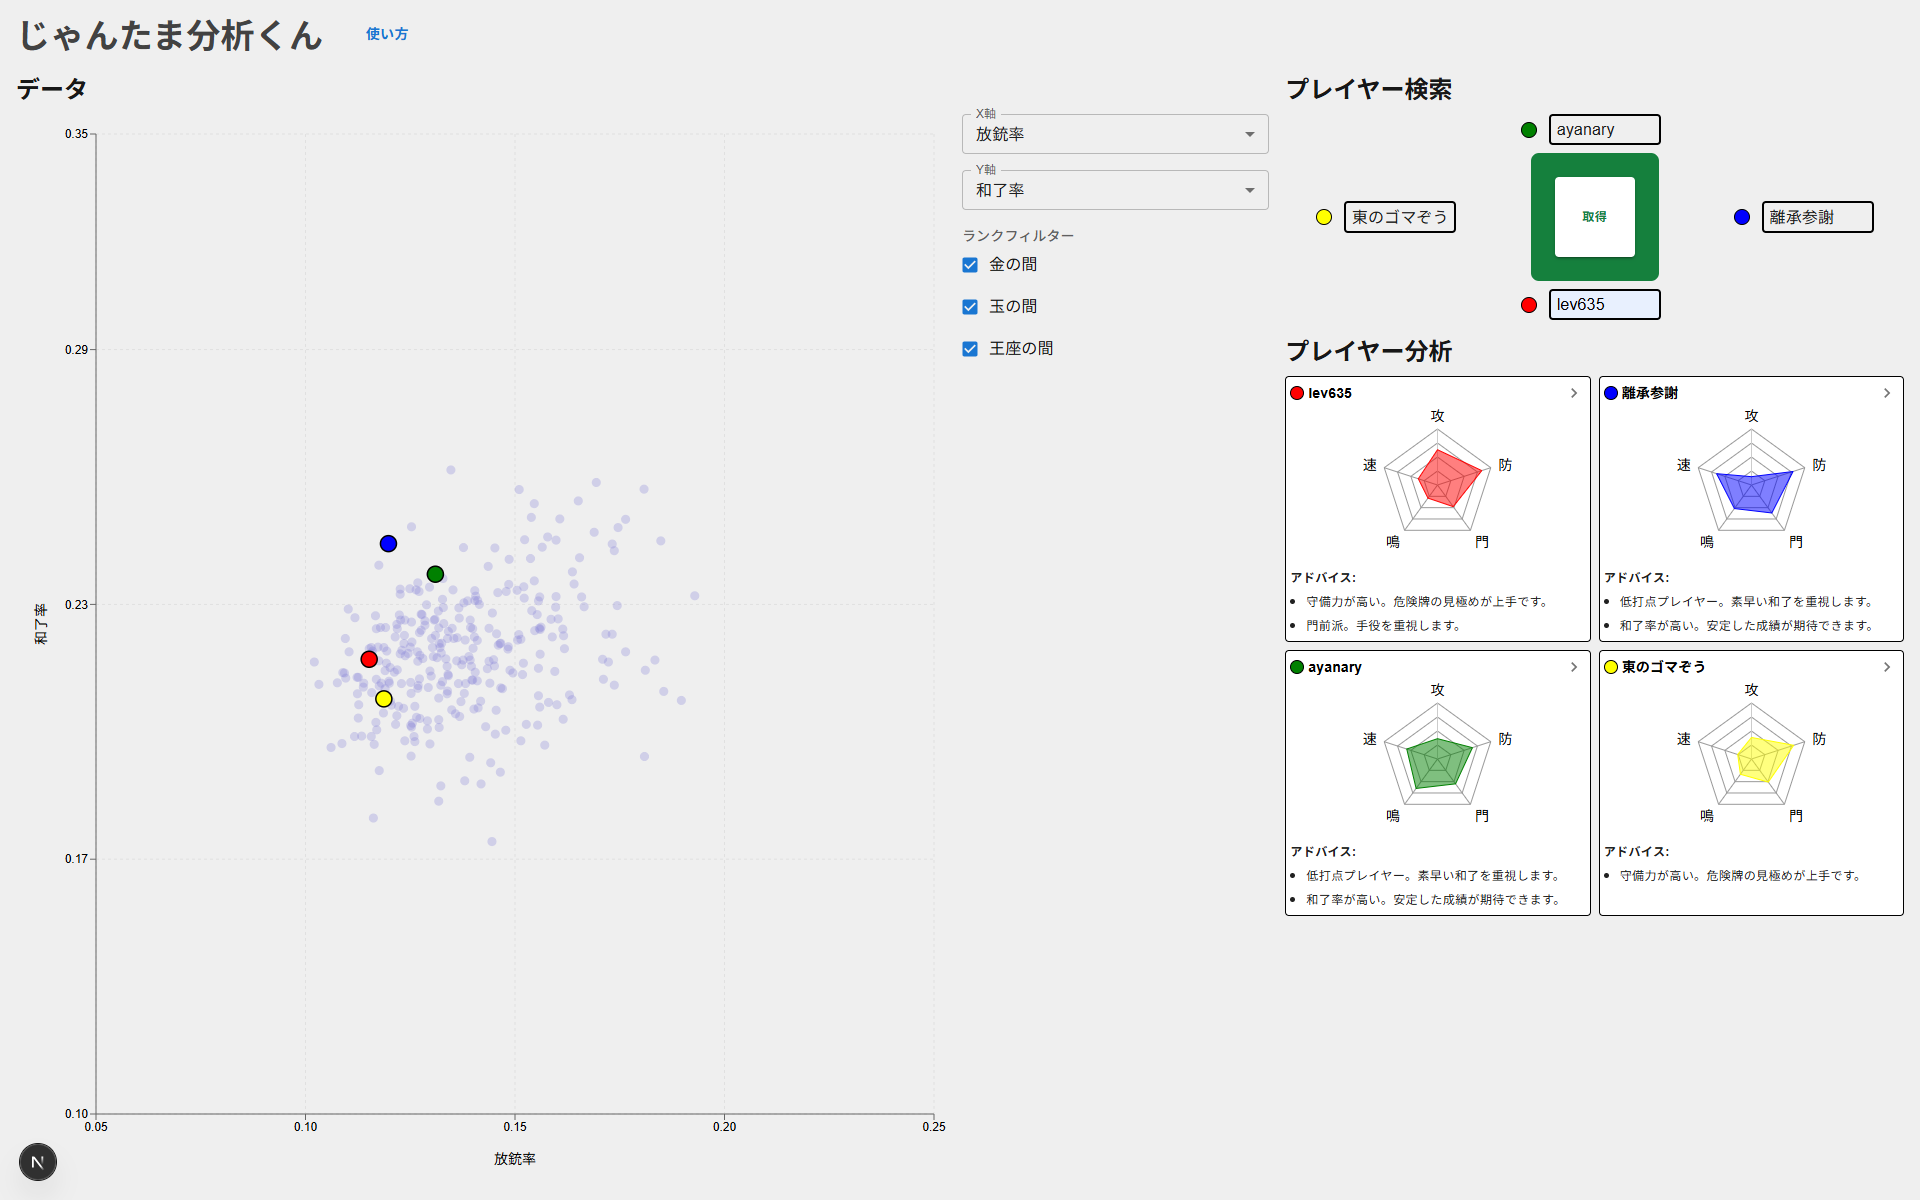
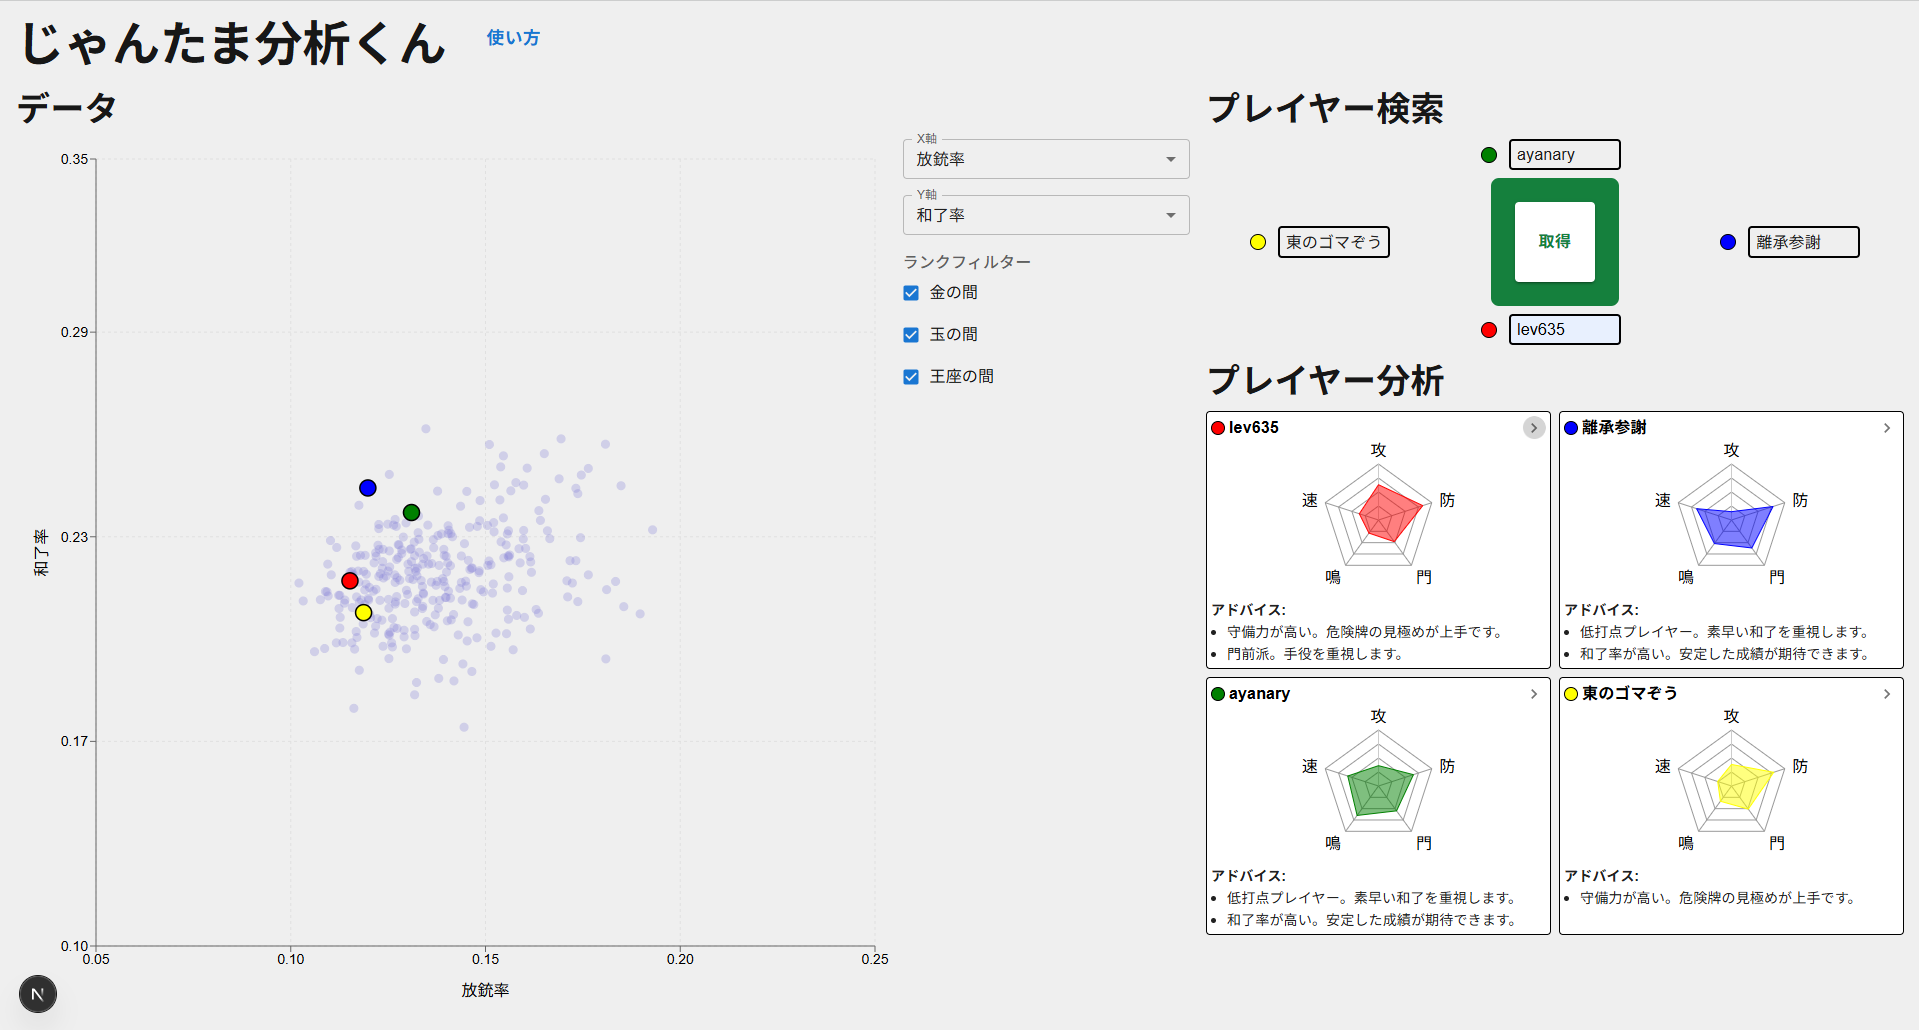
フォントサイズ

diff --git a/components/player/PlayerAnalysisGrid.tsx b/components/player/PlayerAnalysisGrid.tsx
@@ -49,7 +49,7 @@ const PlayerCard = memo(function PlayerCard({ player, color, stats }: PlayerCard
               bgcolor: color,
             }}
           />
-          <Typography variant="body2" component="h4" sx={{ fontWeight: 'bold', color: 'black' }}>
+          <Typography variant="body1" component="h4" sx={{ fontWeight: 'bold', color: 'black' }}>
             {player['名前'] || 'プレイヤー'}
           </Typography>
         </Box>
@@ -64,20 +64,20 @@ const PlayerCard = memo(function PlayerCard({ player, color, stats }: PlayerCard
       {viewMode === 'chart' ? (
         <Box>
           <PlayerRadarChart playerData={player} color={color} />
-          <Typography variant="caption" sx={{ fontWeight: 'bold' }}>
+          <Typography variant="body2" sx={{ fontWeight: 'bold' }}>
             アドバイス:
           </Typography>
           <List dense disablePadding sx={{ pl: 2, listStyleType: 'disc' }}>
             {advice.map((item, i) => (
               <ListItem key={i} disableGutters sx={{ display: 'list-item', p: 0 }}>
-                <Typography variant="caption">{item}</Typography>
+                <Typography variant="body2">{item}</Typography>
               </ListItem>
             ))}
           </List>
         </Box>
       ) : (
         <Box>
-          <Typography sx={{ fontWeight: 'bold', display: 'block' }}>
+          <Typography variant="body2" sx={{ fontWeight: 'bold', display: 'block' }}>
             統計情報:
           </Typography>
           <Box sx={{ display: 'grid', gridTemplateColumns: '1fr 1fr', gap: 0.5 }}>
@@ -93,7 +93,7 @@ const PlayerCard = memo(function PlayerCard({ player, color, stats }: PlayerCard
 
                 return (
                   <Box key={key}>
-                    <Typography variant="caption">
+                    <Typography variant="body2">
                       {key}: {displayValue}
                     </Typography>
                   </Box>
@@ -186,7 +186,7 @@ export default function PlayerAnalysisGrid({
   return (
     <Grid container spacing={1}>
       <Grid size={12}>
-        <Typography variant="h5" component="h2" sx={{ fontWeight: 'bold' }}>
+        <Typography variant="h4" component="h2" sx={{ fontWeight: 'bold' }}>
           プレイヤー分析
         </Typography>
       </Grid>

diff --git a/components/HelpModal.tsx b/components/HelpModal.tsx
@@ -21,37 +21,37 @@ export default function HelpModal({ isOpen, onClose }: HelpModalProps) {
     >
       <DialogTitle>
         <Box sx={{ display: 'flex', justifyContent: 'space-between', alignItems: 'center' }}>
-          <Typography variant="h5" component="span" sx={{ fontWeight: 'bold' }}>
+          <Typography variant="h4" component="span" sx={{ fontWeight: 'bold' }}>
             使い方
           </Typography>
           <IconButton onClick={onClose} size="small">
-            <Typography variant="h6">×</Typography>
+            <Typography variant="h5">×</Typography>
           </IconButton>
         </Box>
       </DialogTitle>
       <DialogContent>
         <Stack spacing={2}>
           <Box component="section">
-            <Typography variant="h6" sx={{ fontWeight: 'bold' }}>
+            <Typography variant="h5" sx={{ fontWeight: 'bold' }}>
               1. プレイヤー検索
             </Typography>
-            <Typography variant="body2">
+            <Typography variant="body1">
               右側のテキストボックスにプレイヤー名を入力し、「取得」ボタンを押すとプレイヤーのデータが取得されます。
             </Typography>
           </Box>
           <Box component="section">
-            <Typography variant="h6" sx={{ fontWeight: 'bold' }}>
+            <Typography variant="h5" sx={{ fontWeight: 'bold' }}>
               2. 散布図
             </Typography>
-            <Typography variant="body2">
+            <Typography variant="body1">
               左側の散布図では、横軸・縦軸の指標を選択してプレイヤーの分布を確認できます。
             </Typography>
           </Box>
           <Box component="section">
-            <Typography variant="h6" sx={{ fontWeight: 'bold' }}>
+            <Typography variant="h5" sx={{ fontWeight: 'bold' }}>
               3. プレイヤー分析
             </Typography>
-            <Typography variant="body2">
+            <Typography variant="body1">
               検索したプレイヤーのレーダーチャートとアドバイスが表示されます。各プレイヤーの特徴やプレイスタイルを確認できます。
             </Typography>
           </Box>

diff --git a/components/scatter/ScatterPlotControls.tsx b/components/scatter/ScatterPlotControls.tsx
@@ -41,35 +41,37 @@ const ScatterPlotControls = memo(function ScatterPlotControls({
   return (
     <Stack sx={{ gap: 2 }}>
       <FormControl fullWidth size="small">
-        <InputLabel id="x-axis-label">X軸</InputLabel>
+        <InputLabel id="x-axis-label" sx={{ fontSize: '1rem' }}>X軸</InputLabel>
         <Select
           labelId="x-axis-label"
           value={xAxis}
           label="X軸"
           onChange={handleXAxisChange}
+          sx={{ fontSize: '1rem' }}
         >
           {axisOptions.map(key => (
-            <MenuItem key={key} value={key}>{key}</MenuItem>
+            <MenuItem key={key} value={key} sx={{ fontSize: '1rem' }}>{key}</MenuItem>
           ))}
         </Select>
       </FormControl>
 
       <FormControl fullWidth size="small">
-        <InputLabel id="y-axis-label">Y軸</InputLabel>
+        <InputLabel id="y-axis-label" sx={{ fontSize: '1rem' }}>Y軸</InputLabel>
         <Select
           labelId="y-axis-label"
           value={yAxis}
           label="Y軸"
           onChange={handleYAxisChange}
+          sx={{ fontSize: '1rem' }}
         >
           {axisOptions.map(key => (
-            <MenuItem key={key} value={key}>{key}</MenuItem>
+            <MenuItem key={key} value={key} sx={{ fontSize: '1rem' }}>{key}</MenuItem>
           ))}
         </Select>
       </FormControl>
 
       <Box>
-        <FormLabel component="legend" sx={{ fontSize: '0.875rem', fontWeight: 'medium' }}>
+        <FormLabel component="legend" sx={{ fontSize: '1rem', fontWeight: 'medium' }}>
           ランクフィルター
         </FormLabel>
         <Stack sx={{ gap: 0.5 }}>
@@ -84,7 +86,7 @@ const ScatterPlotControls = memo(function ScatterPlotControls({
                 />
               }
               label={rank}
-              sx={{ fontSize: '0.875rem' }}
+              sx={{ '& .MuiFormControlLabel-label': { fontSize: '1rem' } }}
             />
           ))}
         </Stack>

diff --git a/components/player/PlayerInputTable.tsx b/components/player/PlayerInputTable.tsx
@@ -29,7 +29,7 @@ export default function PlayerInputTable({
   return (
     <Grid container spacing={1}>
       <Grid size={12}>
-        <Typography variant="h5" component="h2" sx={{ fontWeight: 'bold' }}>
+        <Typography variant="h4" component="h2" sx={{ fontWeight: 'bold' }}>
           プレイヤー検索
         </Typography>
       </Grid>
@@ -52,6 +52,7 @@ export default function PlayerInputTable({
             },
             '& .MuiOutlinedInput-input': {
               padding: '4px 8px',
+              fontSize: '1rem',
             },
           }}
         />
@@ -75,6 +76,7 @@ export default function PlayerInputTable({
             },
             '& .MuiOutlinedInput-input': {
               padding: '4px 8px',
+              fontSize: '1rem',
             },
           }}
         />
@@ -103,7 +105,7 @@ export default function PlayerInputTable({
               width: 80,
               height: 80,
               fontWeight: 'bold',
-              fontSize: '0.75rem',
+              fontSize: '1rem',
               '&:hover': { bgcolor: 'grey.100' },
               '&.Mui-disabled': {
                 bgcolor: 'grey.300',
@@ -131,6 +133,7 @@ export default function PlayerInputTable({
             },
             '& .MuiOutlinedInput-input': {
               padding: '4px 8px',
+              fontSize: '1rem',
             },
           }}
         />
@@ -154,6 +157,7 @@ export default function PlayerInputTable({
             },
             '& .MuiOutlinedInput-input': {
               padding: '4px 8px',
+              fontSize: '1rem',
             },
           }}
         />

diff --git a/components/scatter/ScatterPlot.tsx b/components/scatter/ScatterPlot.tsx
@@ -93,21 +93,21 @@ const ScatterPlot = memo(function ScatterPlot({
           type="number"
           dataKey={xKey}
           domain={xDomain}
-          tick={{ fill: '#000', fontSize: 12 }}
+          tick={{ fill: '#000', fontSize: 14 }}
           tickFormatter={(value) => value.toFixed(2)}
           allowDataOverflow={true}
         >
-          <Label value={xLabel} offset={-20} position="insideBottom" style={{ fontSize: 14, fill: '#000' }} />
+          <Label value={xLabel} offset={-20} position="insideBottom" style={{ fontSize: 16, fill: '#000' }} />
         </XAxis>
         <YAxis
           type="number"
           dataKey={yKey}
           domain={yDomain}
-          tick={{ fill: '#000', fontSize: 12 }}
+          tick={{ fill: '#000', fontSize: 14 }}
           tickFormatter={(value) => value.toFixed(2)}
           allowDataOverflow={true}
         >
-          <Label value={yLabel} angle={-90} position="insideLeft" style={{ fontSize: 14, fill: '#000', textAnchor: 'middle' }} />
+          <Label value={yLabel} angle={-90} position="insideLeft" style={{ fontSize: 16, fill: '#000', textAnchor: 'middle' }} />
         </YAxis>
         <Tooltip
           cursor={{ strokeDasharray: '3 3' }}

diff --git a/app/page.tsx b/app/page.tsx
@@ -94,7 +94,7 @@ export default function Home() {
           gap: 4,
         }}
       >
-        <Typography variant="h4" component="h2" sx={{ fontWeight: 'bold', color: 'grey.800' }}>
+        <Typography variant="h3" component="h2" sx={{ fontWeight: 'bold' }}>
           じゃんたま分析くん
         </Typography>
         <Button
@@ -103,6 +103,7 @@ export default function Home() {
           sx={{
             fontWeight: 'bold',
             textTransform: 'none',
+            fontSize: '1.1rem',
           }}
         >
           使い方
@@ -116,7 +117,7 @@ export default function Home() {
         spacing={2}
         sx={{ flex: 1 }}
       >
-        <Grid size={8} sx={{ height: '100%' }}>
+        <Grid size={7.5} sx={{ height: '100%' }}>
           <ScatterPlotSection
             scatterData={scatterData}
             playerScatterPoints={playerScatterPoints}
@@ -124,7 +125,7 @@ export default function Home() {
           />
         </Grid>
 
-        <Grid size={4} sx={{ height: '100%' }}>
+        <Grid size={4.5} sx={{ height: '100%' }}>
           <PlayerSearchSection
             playerNames={playerNames}
             setPlayerNames={setPlayerNames}

diff --git a/components/player/RadarChart.tsx b/components/player/RadarChart.tsx
@@ -52,7 +52,7 @@ const PlayerRadarChart = memo(function PlayerRadarChart({ playerData, color = '#
       <ResponsiveContainer width="100%" height="100%">
         <RadarChart data={data} margin={{ top: 10, right: 10, bottom: 10, left: 10 }}>
           <PolarGrid stroke="#999" />
-          <PolarAngleAxis dataKey="axis" tick={{ fill: '#000', fontSize: 14 }} />
+          <PolarAngleAxis dataKey="axis" tick={{ fill: '#000', fontSize: 16 }} />
           <PolarRadiusAxis angle={90} domain={[0, 1]} tick={false} />
           <Radar
             name="Player Stats"

diff --git a/components/scatter/ScatterPlotSection.tsx b/components/scatter/ScatterPlotSection.tsx
@@ -88,7 +88,7 @@ export default function ScatterPlotSection({
       }}
     >
       <Grid size={12} sx={{ flexShrink: 0 }}>
-        <Typography variant="h5" component="h2" sx={{ fontWeight: 'bold', textAlign: 'left' }}>
+        <Typography variant="h4" component="h2" sx={{ fontWeight: 'bold', textAlign: 'left' }}>
           データ
         </Typography>
       </Grid>

diff --git a/app/globals.css b/app/globals.css
@@ -13,6 +13,7 @@ html, body {
   background-color: var(--background);
   color: var(--foreground);
   font-family: Arial, Helvetica, sans-serif;
+  font-size: 16px;
 }
 
 * {
